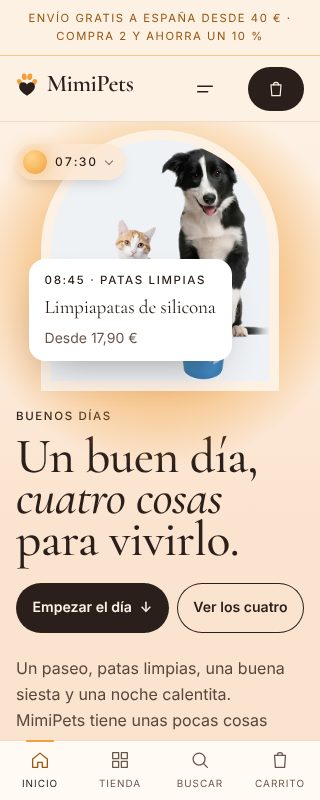
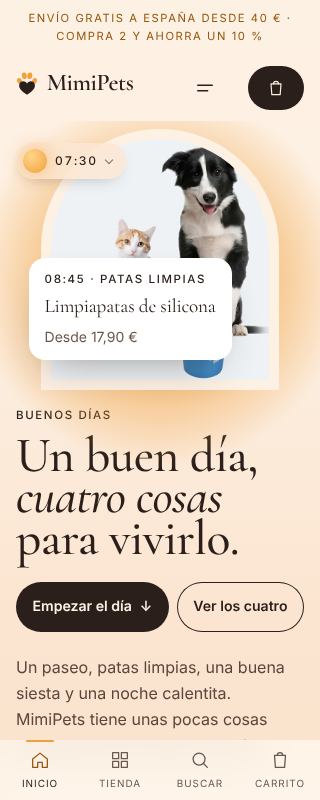
Smooth fades between the day's colours, no lines
- Each chapter's colours flow into the next with eased fades mixed in
  OKLab: every chapter starts on the colour the previous one ends on,
  and each fade starts and ends softly, so no crease shows where they
  meet. The fades are longer (sand into mint, mint into gold), and the
  sunset runs on a curve through gold, rose and violet into the night.
- No lines: the gold rule under the offers strip and the rule above the
  footer are gone. On the home page the header and the phone's bottom
  bar are see-through and softly blurred, without an edge, so the
  colours pass under them. The open phone menu keeps a solid header.

Claude-Session: https://claude.ai/code/session_01W8hsiWPjb2UxqJw8UVpYvn

diff --git a/src/components/home/Day.module.css b/src/components/home/Day.module.css
@@ -136,13 +136,33 @@
   }
 }
 
+/* Each chapter's light flows into the next: every chapter starts with the
+   colour the one before it ends on, and each fade is eased (it starts and ends
+   softly, mixed in OKLab), so no edge or crease shows where they meet. */
 /* ── Light for each moment ───────────────────────────────────────────── */
 .dawn {
   --trail-line: rgba(42, 31, 26, 0.28);
   --chip: #fbe6d3;
   --orb: radial-gradient(circle at 35% 30%, #ffd58a, #f0a03c);
   --glow: rgba(240, 160, 60, 0.45);
-  background: linear-gradient(180deg, #fdf1e4 0%, #fbe4cf 46%, #f8e3cd 100%);
+  background: linear-gradient(
+    180deg,
+    #fdf1e4 0.0%,
+    #fdf1e4 7.14%,
+    #fdf0e2 14.29%,
+    #fdefe0 21.43%,
+    #fcedde 28.57%,
+    #fcebdb 35.71%,
+    #fce9d7 42.86%,
+    #fce7d4 50.0%,
+    #fbe5d1 57.14%,
+    #fbe4cf 64.29%,
+    #fae4ce 71.43%,
+    #f9e3ce 78.57%,
+    #f8e3cd 85.71%,
+    #f8e3cd 92.86%,
+    #f8e3cd 100.0%
+  );
 }
 .walk {
   --ink: #33261a;
@@ -151,7 +171,24 @@
   --chip: #e6d8c0;
   --orb: radial-gradient(circle at 35% 30%, #ffe19a, #f3b24a);
   --glow: rgba(243, 178, 74, 0.45);
-  background: linear-gradient(180deg, #f8e3cd 0%, #e9dcc6 30%, #e3d4ba 100%);
+  background: linear-gradient(
+    180deg,
+    #f8e3cd 0.0%,
+    #f8e3cd 7.14%,
+    #f7e3cd 14.29%,
+    #f6e2cc 21.43%,
+    #f4e2cc 28.57%,
+    #f2e1cb 35.71%,
+    #efe1cb 42.86%,
+    #ede0ca 50.0%,
+    #ebddc6 57.14%,
+    #e9dbc3 64.29%,
+    #e7d9c0 71.43%,
+    #e5d7bd 78.57%,
+    #e4d5bc 85.71%,
+    #e3d4ba 92.86%,
+    #e3d4ba 100.0%
+  );
 }
 .clean {
   --ink: #14231d;
@@ -166,7 +203,27 @@
   --chip: #eef4f1;
   --orb: radial-gradient(circle at 35% 30%, #fff3c4, #ffd45e);
   --glow: rgba(255, 212, 94, 0.6);
-  background: linear-gradient(180deg, #e3d4ba 0, #eef4f1 220px, #eef4f1 100%);
+  background: linear-gradient(
+    180deg,
+    #e3d4ba 0px,
+    #e3d4bb 35px,
+    #e3d5bc 70px,
+    #e4d7bf 105px,
+    #e5d9c2 140px,
+    #e6dbc6 175px,
+    #e7decb 210px,
+    #e8e1d1 245px,
+    #e9e4d6 280px,
+    #eae7db 315px,
+    #ebeae0 350px,
+    #ecede5 385px,
+    #edefe9 420px,
+    #edf1ec 455px,
+    #eef3ef 490px,
+    #eef4f0 525px,
+    #eef4f1 560px,
+    #eef4f1 100%
+  );
 }
 .nap {
   --ink: #3a2408;
@@ -182,7 +239,34 @@
   --chip: #f3cf96;
   --orb: radial-gradient(circle at 35% 30%, #fff0bf, #f6b545);
   --glow: rgba(255, 236, 170, 0.9);
-  background: linear-gradient(180deg, #eef4f1 0, #f6dcae 240px, #f1c283 100%);
+  background: linear-gradient(
+    180deg,
+    #eef4f1 0px,
+    #eef4f0 32px,
+    #eef3ee 65px,
+    #eff2eb 98px,
+    #f0f0e6 130px,
+    #f0eee1 162px,
+    #f1ebda 195px,
+    #f2e9d3 228px,
+    #f3e6cc 260px,
+    #f4e4c6 292px,
+    #f4e2c1 325px,
+    #f5e0bb 358px,
+    #f5dfb7 390px,
+    #f6deb3 422px,
+    #f6ddb0 455px,
+    #f6dcaf 488px,
+    #f6dcae 520px,
+    #f6dbac calc(520px + (100% - 520px) * 0.125),
+    #f5d8a8 calc(520px + (100% - 520px) * 0.25),
+    #f5d4a1 calc(520px + (100% - 520px) * 0.375),
+    #f4cf99 calc(520px + (100% - 520px) * 0.5),
+    #f3ca91 calc(520px + (100% - 520px) * 0.625),
+    #f2c689 calc(520px + (100% - 520px) * 0.75),
+    #f1c385 calc(520px + (100% - 520px) * 0.875),
+    #f1c283 calc(520px + (100% - 520px) * 1.0)
+  );
 }
 .night {
   --trail-line: rgba(243, 235, 221, 0.3);
@@ -190,10 +274,31 @@
   --dusk: 230px;
   background-image: linear-gradient(
     180deg,
-    #f1c283 0,
-    #c9856a 90px,
-    #4b3a5e 200px,
-    #141b33 350px,
+    #f1c283 0px,
+    #f1c283 23px,
+    #f0c082 47px,
+    #efbe81 70px,
+    #edb97f 93px,
+    #e9b37c 117px,
+    #e4ab79 140px,
+    #dfa274 163px,
+    #d8976f 187px,
+    #cf8a6b 210px,
+    #be7d6b 233px,
+    #a7706f 257px,
+    #8e6170 280px,
+    #72516b 303px,
+    #584163 327px,
+    #44365b 350px,
+    #383153 373px,
+    #2f2c4c 397px,
+    #272845 420px,
+    #20233f 443px,
+    #1b203a 467px,
+    #171d36 490px,
+    #151c34 513px,
+    #141b33 537px,
+    #141b33 560px,
     #141b33 100%
   );
 }
@@ -1576,10 +1681,31 @@
     --dusk: 210px;
     background-image: linear-gradient(
       180deg,
-      #f1c283 0,
-      #c9856a 80px,
-      #4b3a5e 180px,
-      #141b33 300px,
+      #f1c283 0px,
+      #f1c283 20px,
+      #f0c082 40px,
+      #efbe81 60px,
+      #edb97f 80px,
+      #e9b37c 100px,
+      #e4ab79 120px,
+      #dfa274 140px,
+      #d8976f 160px,
+      #cf8a6b 180px,
+      #be7d6b 200px,
+      #a7706f 220px,
+      #8e6170 240px,
+      #72516b 260px,
+      #584163 280px,
+      #44365b 300px,
+      #383153 320px,
+      #2f2c4c 340px,
+      #272845 360px,
+      #20233f 380px,
+      #1b203a 400px,
+      #171d36 420px,
+      #151c34 440px,
+      #141b33 460px,
+      #141b33 480px,
       #141b33 100%
     );
   }

diff --git a/src/components/layout/Header.module.css b/src/components/layout/Header.module.css
@@ -2,7 +2,6 @@
   text-align: center;
   background: var(--bg);
   color: var(--gold-text);
-  border-bottom: 1px solid var(--gold-line);
   padding: 9px 16px;
   font-family: var(--mono);
   font-size: 0.7rem;
@@ -509,4 +508,19 @@
     font-size: 0.9rem;
     letter-spacing: 0;
   }
+}
+
+/* Home page: no edge under the header. It is see-through and softly blurred,
+   so the colours of the day pass under it without a line. The open phone
+   menu needs a solid header (a blurred one would hold the menu inside it). */
+:global(html[data-moment]) .top {
+  border-bottom-color: transparent;
+  background-color: color-mix(in srgb, var(--bg) 70%, transparent);
+  -webkit-backdrop-filter: blur(18px) saturate(1.15);
+  backdrop-filter: blur(18px) saturate(1.15);
+}
+:global(html[data-moment]) .top:has(.isOpen) {
+  background-color: var(--bg);
+  -webkit-backdrop-filter: none;
+  backdrop-filter: none;
 }

diff --git a/src/components/layout/TabBar.module.css b/src/components/layout/TabBar.module.css
@@ -128,3 +128,13 @@
   --gold-text: #f6c66a;
   --gold-ink: #f9d58c;
 }
+/* Home page: like the header, the bar has no edge line and lets the day's
+   colours through, softly blurred. */
+@media (max-width: 760px) {
+  :global(html[data-moment]) .bar {
+    border-top-color: transparent;
+    background-color: color-mix(in srgb, var(--surface) 72%, transparent);
+    -webkit-backdrop-filter: blur(18px) saturate(1.15);
+    backdrop-filter: blur(18px) saturate(1.15);
+  }
+}

diff --git a/src/components/layout/Footer.module.css b/src/components/layout/Footer.module.css
@@ -1,5 +1,4 @@
 .footer {
-  border-top: 1px solid var(--line);
   padding-block: 72px 36px;
   color: var(--ink-soft);
   font-size: 0.92rem;
